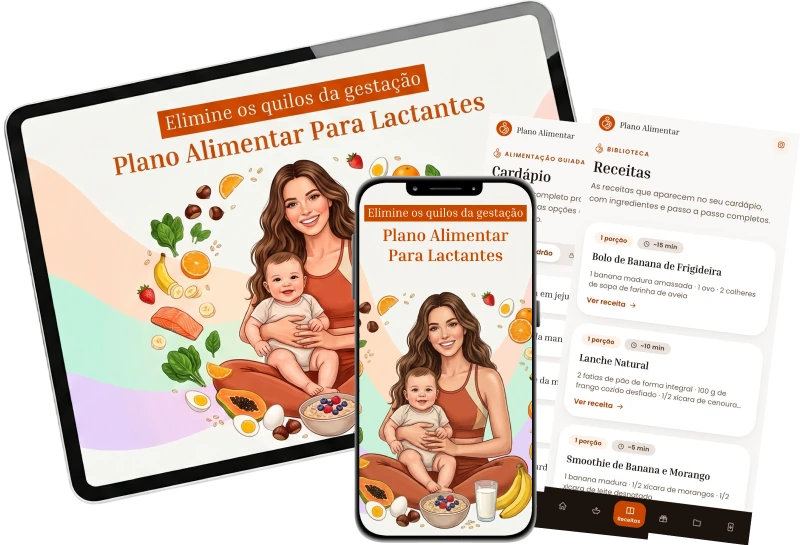
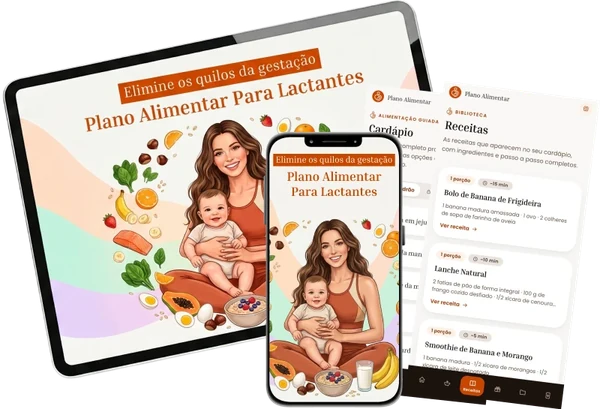
otimização

diff --git a/index.html b/index.html
@@ -7,6 +7,7 @@
 <title>Plano Alimentar Para Lactantes | Diagnóstico Gratuito</title>
 <meta name="description" content="Descubra em 2 minutos seu cardápio personalizado para emagrecer sem atrapalhar a amamentação.">
 <link rel="stylesheet" href="css/styles.css">
+<link rel="preload" as="image" href="assets/etapas/etapa00-abertura/produto-mockup.webp" fetchpriority="high">
 
 <!-- Meta Pixel Code -->
 <script>
@@ -14,10 +15,7 @@
 {if(f.fbq)return;n=f.fbq=function(){n.callMethod?
 n.callMethod.apply(n,arguments):n.queue.push(arguments)};
 if(!f._fbq)f._fbq=n;n.push=n;n.loaded=!0;n.version='2.0';
-n.queue=[];t=b.createElement(e);t.async=!0;
-t.src=v;s=b.getElementsByTagName(e)[0];
-s.parentNode.insertBefore(t,s)}(window, document,'script',
-'https://connect.facebook.net/en_US/fbevents.js');
+n.queue=[]}(window, document,'script');
 fbq('init', '1073323022234648');
 fbq('track', 'PageView');
 </script>
@@ -26,12 +24,34 @@ src="https://www.facebook.com/tr?id=1073323022234648&ev=PageView&noscript=1"
 /></noscript>
 <!-- End Meta Pixel Code -->
 
-<script type="text/javascript">
-    (function(c,l,a,r,i,t,y){
-        c[a]=c[a]||function(){(c[a].q=c[a].q||[]).push(arguments)};
-        t=l.createElement(r);t.async=1;t.src="https://www.clarity.ms/tag/"+i;
-        y=l.getElementsByTagName(r)[0];y.parentNode.insertBefore(t,y);
-    })(window, document, "clarity", "script", "yhc93lc42y");
+<!--
+  Os scripts pesados do Pixel e do Clarity (113 KB + 25 KB, de domínios
+  externos) só são baixados depois que a página termina de carregar.
+  Isso tira os dois do caminho crítico de carregamento (LCP), sem
+  perder rastreamento: os eventos fbq() acima já ficam na fila e são
+  disparados assim que o fbevents.js real chega.
+-->
+<script>
+function carregarScriptsDeAnaliseAdiados() {
+  var fb = document.createElement("script");
+  fb.async = true;
+  fb.src = "https://connect.facebook.net/en_US/fbevents.js";
+  document.head.appendChild(fb);
+
+  (function (c, l, a, r, i, t, y) {
+    c[a] = c[a] || function () { (c[a].q = c[a].q || []).push(arguments); };
+    t = l.createElement(r); t.async = 1; t.src = "https://www.clarity.ms/tag/" + i;
+    y = l.getElementsByTagName(r)[0]; y.parentNode.insertBefore(t, y);
+  })(window, document, "clarity", "script", "yhc93lc42y");
+}
+
+if (document.readyState === "complete") {
+  setTimeout(carregarScriptsDeAnaliseAdiados, 1200);
+} else {
+  window.addEventListener("load", function () {
+    setTimeout(carregarScriptsDeAnaliseAdiados, 1200);
+  });
+}
 </script>
 
 
@@ -58,7 +78,7 @@ src="https://www.facebook.com/tr?id=1073323022234648&ev=PageView&noscript=1"
       <h1 class="abertura-headline">Elimine os <span class="destaque">quilos da gestação</span> sem atrapalhar a amamentação</h1>
       <p class="abertura-sub">Sem cortar sua energia, sem dietas restritas e sem precisar de tempo que você não tem. Um cardápio feito por nutricionista especializada em lactantes.</p>
 
-      <img class="abertura-imagem foto-real" src="assets/etapas/etapa00-abertura/produto-mockup.webp" alt="Mockup do tablet e celular exibindo o Plano Alimentar Para Lactantes">
+      <img class="abertura-imagem foto-real" loading="eager" fetchpriority="high" decoding="async" width="600" height="409" src="assets/etapas/etapa00-abertura/produto-mockup.webp" alt="Mockup do tablet e celular exibindo o Plano Alimentar Para Lactantes">
 
       <div class="selos">
         <span class="selo">+20 mil mães</span>
@@ -123,19 +143,19 @@ src="https://www.facebook.com/tr?id=1073323022234648&ev=PageView&noscript=1"
       <p class="etapa-subtitulo">Selecione a opção que mais te descreve</p>
       <div class="grade-opcoes" data-tipo="single" data-campo="corpoImagem" data-proxima="3">
         <button type="button" class="opcao-cartao" data-valor="tipo1">
-          <img class="foto-real" src="assets/etapas/etapa02-corpo/tipo1.webp" alt="Ilustração de corpo feminino, tipo 1">
+          <img class="foto-real" loading="lazy" decoding="async" width="600" height="600" src="assets/etapas/etapa02-corpo/tipo1.webp" alt="Ilustração de corpo feminino, tipo 1">
           <span class="opcao-cartao-label">Tipo 1</span>
         </button>
         <button type="button" class="opcao-cartao" data-valor="tipo2">
-          <img class="foto-real" src="assets/etapas/etapa02-corpo/tipo2.webp" alt="Ilustração de corpo feminino, tipo 2">
+          <img class="foto-real" loading="lazy" decoding="async" width="600" height="600" src="assets/etapas/etapa02-corpo/tipo2.webp" alt="Ilustração de corpo feminino, tipo 2">
           <span class="opcao-cartao-label">Tipo 2</span>
         </button>
         <button type="button" class="opcao-cartao" data-valor="tipo3">
-          <img class="foto-real" src="assets/etapas/etapa02-corpo/tipo3.webp" alt="Ilustração de corpo feminino, tipo 3">
+          <img class="foto-real" loading="lazy" decoding="async" width="600" height="600" src="assets/etapas/etapa02-corpo/tipo3.webp" alt="Ilustração de corpo feminino, tipo 3">
           <span class="opcao-cartao-label">Tipo 3</span>
         </button>
         <button type="button" class="opcao-cartao" data-valor="tipo4">
-          <img class="foto-real" src="assets/etapas/etapa02-corpo/tipo4.webp" alt="Ilustração de corpo feminino, tipo 4">
+          <img class="foto-real" loading="lazy" decoding="async" width="600" height="600" src="assets/etapas/etapa02-corpo/tipo4.webp" alt="Ilustração de corpo feminino, tipo 4">
           <span class="opcao-cartao-label">Tipo 4</span>
         </button>
       </div>
@@ -282,21 +302,21 @@ src="https://www.facebook.com/tr?id=1073323022234648&ev=PageView&noscript=1"
       <h2 class="etapa-titulo">Veja as transformações de quem já usou o Plano Alimentar</h2>
 
       <div class="caso-social">
-        <img class="foto-real" src="assets/etapas/etapa08-prova-social-1/caso-01.webp" alt="Foto antes e depois real, caso 1">
+        <img class="foto-real" loading="lazy" decoding="async" width="800" height="800" src="assets/etapas/etapa08-prova-social-1/caso-01.webp" alt="Foto antes e depois real, caso 1">
         <span class="caso-tag-resultado oculto">[Resultado real: -X kg em Y semanas]</span>
         <p class="caso-depoimento oculto">"[Depoimento real da paciente entra aqui.]"</p>
         <p class="caso-autor oculto">[Nome], [idade] anos, [Cidade]</p>
       </div>
 
       <div class="caso-social">
-        <img class="foto-real" src="assets/etapas/etapa08-prova-social-1/caso-02.webp" alt="Foto antes e depois real, caso 2">
+        <img class="foto-real" loading="lazy" decoding="async" width="800" height="800" src="assets/etapas/etapa08-prova-social-1/caso-02.webp" alt="Foto antes e depois real, caso 2">
         <span class="caso-tag-resultado oculto">[Resultado real: -X kg em Y semanas]</span>
         <p class="caso-depoimento oculto">"[Depoimento real da paciente entra aqui.]"</p>
         <p class="caso-autor oculto">[Nome], [idade] anos, [Cidade]</p>
       </div>
 
       <div class="caso-social">
-        <img class="foto-real" src="assets/etapas/etapa08-prova-social-1/caso-03.webp" alt="Foto antes e depois real, caso 3">
+        <img class="foto-real" loading="lazy" decoding="async" width="800" height="800" src="assets/etapas/etapa08-prova-social-1/caso-03.webp" alt="Foto antes e depois real, caso 3">
         <span class="caso-tag-resultado oculto">[Resultado real: -X kg em Y semanas]</span>
         <p class="caso-depoimento oculto">"[Depoimento real da paciente entra aqui.]"</p>
         <p class="caso-autor oculto">[Nome], [idade] anos, [Cidade]</p>
@@ -376,9 +396,9 @@ src="https://www.facebook.com/tr?id=1073323022234648&ev=PageView&noscript=1"
         💚 O Plano Alimentar Para Lactantes foi desenhado do outro jeito: pensado para aumentar a produção de leite e, ao mesmo tempo, acelerar a queima de gordura, sem passar fome e sem comprometer sua energia.
       </div>
 
-      <img class="foto-real" src="assets/etapas/etapa12-depoimento/depoimento-01.webp" alt="Print real de depoimento de paciente" style="margin-bottom:12px;">
-      <img class="foto-real" src="assets/etapas/etapa12-depoimento/depoimento-02.webp" alt="Print real de depoimento de paciente" style="margin-bottom:12px;">
-      <img class="foto-real" src="assets/etapas/etapa12-depoimento/depoimento-03.webp" alt="Print real de depoimento de paciente">
+      <img class="foto-real" loading="lazy" decoding="async" width="800" height="474" src="assets/etapas/etapa12-depoimento/depoimento-01.webp" alt="Print real de depoimento de paciente" style="margin-bottom:12px;">
+      <img class="foto-real" loading="lazy" decoding="async" width="800" height="608" src="assets/etapas/etapa12-depoimento/depoimento-02.webp" alt="Print real de depoimento de paciente" style="margin-bottom:12px;">
+      <img class="foto-real" loading="lazy" decoding="async" width="800" height="487" src="assets/etapas/etapa12-depoimento/depoimento-03.webp" alt="Print real de depoimento de paciente">
 
       <!-- Depoimento ainda fictício, placeholder até a cliente enviar o texto real -->
       <div class="bloco-borda-destaque">
@@ -410,7 +430,7 @@ src="https://www.facebook.com/tr?id=1073323022234648&ev=PageView&noscript=1"
       <span class="tag-pill">🔥 Menos inchaço, resultado real</span>
       <h2 class="etapa-titulo" style="font-size:21px;">Por que algumas mães <span class="destaque">emagrecem fácil</span> enquanto você luta para perder qualquer quilo?</h2>
 
-      <img class="foto-real" src="assets/etapas/etapa13-antes-depois/antes-depois.webp" alt="Foto antes e depois real" style="margin-bottom:16px;">
+      <img class="foto-real" loading="lazy" decoding="async" width="800" height="1310" src="assets/etapas/etapa13-antes-depois/antes-depois.webp" alt="Foto antes e depois real" style="margin-bottom:16px;">
 
       <p>Dieta restritiva no pós-parto retém líquido e acumula inflamação. A causa costuma ser cortisol elevado, sono ruim e uma alimentação desajustada pra essa fase. O resultado é o peso travado mesmo quando você sente que está "fazendo tudo certo".</p>
 
@@ -609,19 +629,19 @@ src="https://www.facebook.com/tr?id=1073323022234648&ev=PageView&noscript=1"
       <p class="etapa-subtitulo" style="text-align:center;">Conversas reais entre a nutricionista e pacientes</p>
 
       <div class="conversa-bloco">
-        <img class="foto-real" src="assets/etapas/etapa22-conversas/conversa-01.webp" alt="Print real de conversa 1">
+        <img class="foto-real" loading="lazy" decoding="async" width="800" height="328" src="assets/etapas/etapa22-conversas/conversa-01.webp" alt="Print real de conversa 1">
       </div>
       <div class="conversa-bloco">
-        <img class="foto-real" src="assets/etapas/etapa22-conversas/conversa-02.webp" alt="Print real de conversa 2">
+        <img class="foto-real" loading="lazy" decoding="async" width="800" height="548" src="assets/etapas/etapa22-conversas/conversa-02.webp" alt="Print real de conversa 2">
       </div>
       <div class="conversa-bloco">
-        <img class="foto-real" src="assets/etapas/etapa22-conversas/conversa-03.webp" alt="Print real de conversa 3">
+        <img class="foto-real" loading="lazy" decoding="async" width="800" height="875" src="assets/etapas/etapa22-conversas/conversa-03.webp" alt="Print real de conversa 3">
       </div>
       <div class="conversa-bloco">
-        <img class="foto-real" src="assets/etapas/etapa22-conversas/conversa-04.webp" alt="Print real de conversa 4">
+        <img class="foto-real" loading="lazy" decoding="async" width="800" height="753" src="assets/etapas/etapa22-conversas/conversa-04.webp" alt="Print real de conversa 4">
       </div>
       <div class="conversa-bloco">
-        <img class="foto-real" src="assets/etapas/etapa22-conversas/conversa-05.webp" alt="Print real de conversa 5">
+        <img class="foto-real" loading="lazy" decoding="async" width="800" height="287" src="assets/etapas/etapa22-conversas/conversa-05.webp" alt="Print real de conversa 5">
       </div>
 
       <div class="bloco-borda-destaque">
@@ -656,7 +676,7 @@ src="https://www.facebook.com/tr?id=1073323022234648&ev=PageView&noscript=1"
 
         <div class="loading-social" id="loading-social">
           <div class="caso-social">
-            <img class="foto-real" src="assets/etapas/etapa23-loading/antes-depois.webp" alt="Foto antes e depois real, resultado verificado">
+            <img class="foto-real" loading="lazy" decoding="async" width="800" height="1149" src="assets/etapas/etapa23-loading/antes-depois.webp" alt="Foto antes e depois real, resultado verificado">
             <span class="caso-tag-resultado">Resultado Verificado</span>
             <p class="caso-depoimento oculto">"[Depoimento curto real entra aqui.]"</p>
           </div>
@@ -818,19 +838,19 @@ src="https://www.facebook.com/tr?id=1073323022234648&ev=PageView&noscript=1"
       <h3 class="secao-titulo-menor">Mais de 20 mil mães estão secando de forma saudável e segura com o Plano Alimentar!</h3>
 
       <div class="caso-social">
-        <img class="foto-real" src="assets/etapas/etapa25-prova-social-2/caso-01.webp" alt="Foto antes e depois real, oferta final, caso 1">
+        <img class="foto-real" loading="lazy" decoding="async" width="800" height="1005" src="assets/etapas/etapa25-prova-social-2/caso-01.webp" alt="Foto antes e depois real, oferta final, caso 1">
         <span class="caso-tag-resultado oculto">[Resultado real: -X kg em Y semanas]</span>
         <p class="caso-depoimento oculto">"[Depoimento real da paciente entra aqui.]"</p>
         <p class="caso-autor oculto">[Nome], [idade] anos, [Cidade]</p>
       </div>
       <div class="caso-social">
-        <img class="foto-real" src="assets/etapas/etapa25-prova-social-2/caso-02.webp" alt="Foto antes e depois real, oferta final, caso 2">
+        <img class="foto-real" loading="lazy" decoding="async" width="800" height="1005" src="assets/etapas/etapa25-prova-social-2/caso-02.webp" alt="Foto antes e depois real, oferta final, caso 2">
         <span class="caso-tag-resultado oculto">[Resultado real: -X kg em Y semanas]</span>
         <p class="caso-depoimento oculto">"[Depoimento real da paciente entra aqui.]"</p>
         <p class="caso-autor oculto">[Nome], [idade] anos, [Cidade]</p>
       </div>
       <div class="caso-social">
-        <img class="foto-real" src="assets/etapas/etapa25-prova-social-2/caso-03.webp" alt="Foto antes e depois real, oferta final, caso 3">
+        <img class="foto-real" loading="lazy" decoding="async" width="800" height="1685" src="assets/etapas/etapa25-prova-social-2/caso-03.webp" alt="Foto antes e depois real, oferta final, caso 3">
         <span class="caso-tag-resultado oculto">[Resultado real: -X kg em Y semanas]</span>
         <p class="caso-depoimento oculto">"[Depoimento real da paciente entra aqui.]"</p>
         <p class="caso-autor oculto">[Nome], [idade] anos, [Cidade]</p>
@@ -854,7 +874,7 @@ src="https://www.facebook.com/tr?id=1073323022234648&ev=PageView&noscript=1"
       <!-- 25g: bio da nutricionista -->
       <div class="bio-card">
         <span class="tag-pill">👋 Quem sou eu?</span>
-        <img class="bio-foto-perfil" src="assets/etapas/etapa25-bio/perfil.webp" alt="Foto de Ákila Samara">
+        <img class="bio-foto-perfil" loading="lazy" decoding="async" width="1080" height="1080" src="assets/etapas/etapa25-bio/perfil.webp" alt="Foto de Ákila Samara">
         <p class="bio-nome">Ákila Samara</p>
         <p>Sou nutricionista desde 2016 e, durante quase toda a minha vida adulta, sempre tive um biotipo magro. Achava que comer sem me preocupar seria minha realidade para sempre. Então a maternidade mudou tudo.</p>
         <p>Engravidei com 69 kg e cheguei ao fim da gestação com 83 kg. Depois do parto vieram as noites mal dormidas, a ansiedade e o cansaço, e eu buscava conforto na comida. Sem perceber, entrei num ciclo de compulsão alimentar que me manteve cerca de 8 kg acima do meu peso por oito meses.</p>
@@ -863,7 +883,7 @@ src="https://www.facebook.com/tr?id=1073323022234648&ev=PageView&noscript=1"
         <p class="bio-crn">CRN/9 29522</p>
       </div>
 
-      <img class="foto-real" src="assets/etapas/etapa25-bio/destaque.webp" alt="Foto da nutricionista grávida, com a família" style="margin-bottom:14px;">
+      <img class="foto-real" loading="lazy" decoding="async" width="750" height="750" src="assets/etapas/etapa25-bio/destaque.webp" alt="Foto da nutricionista grávida, com a família" style="margin-bottom:14px;">
       <p class="bio-reforco">Eu vivi essa transformação e agora é a sua vez! Aproveite agora, você não vai encontrar essa oferta depois.</p>
       <button type="button" class="btn btn-primario btn-grande" id="btn-checkout-bio">✅ Quero garantir meu acesso agora →</button>
 
